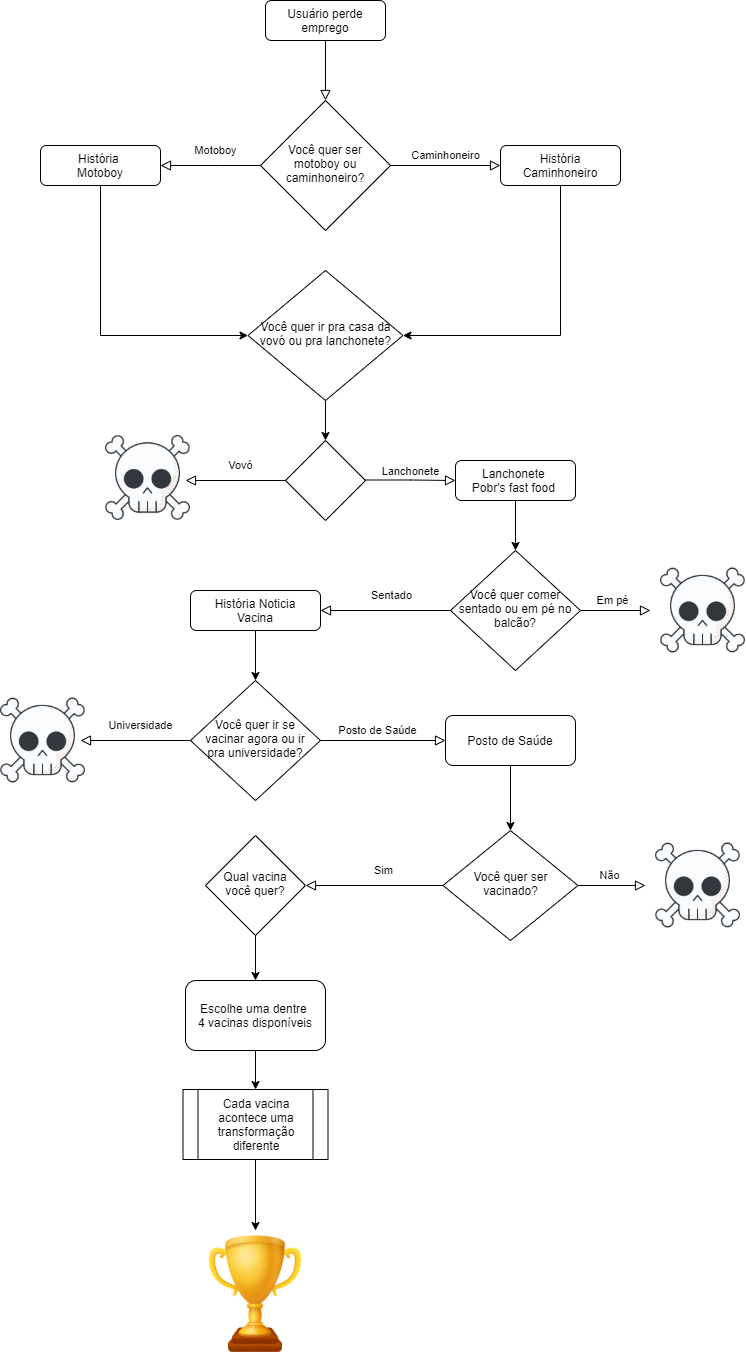
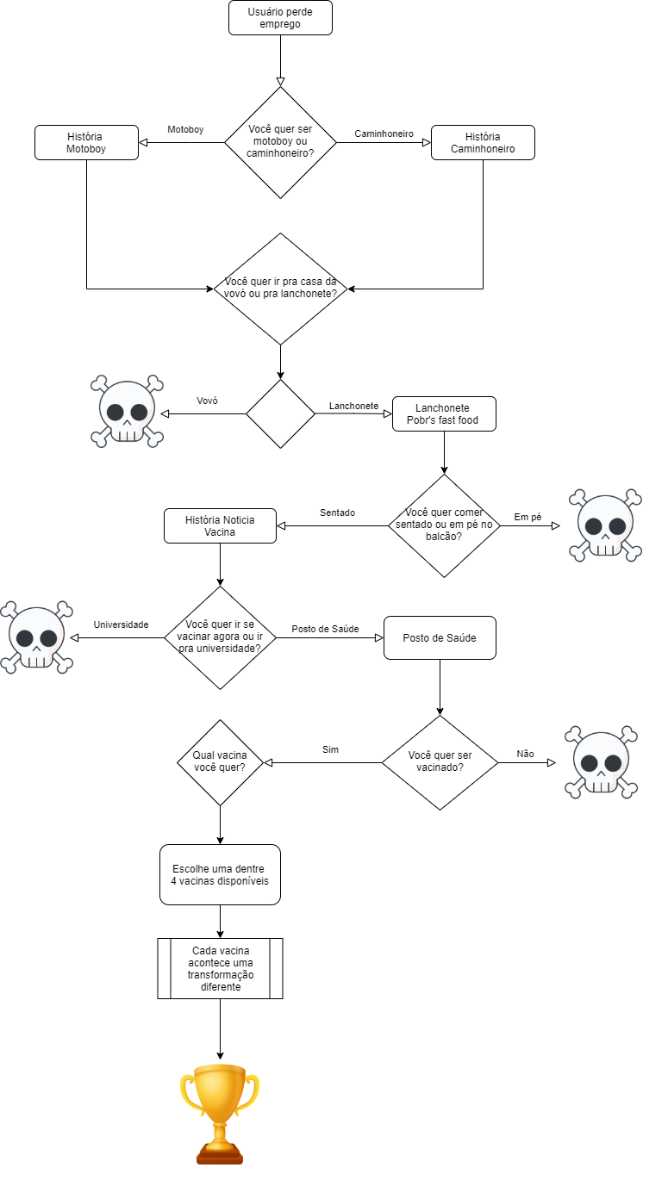
adicionado nova pergunta + mudancas readme

diff --git a/jacare_mutante_comunista.py b/jacare_mutante_comunista.py
@@ -10,8 +10,9 @@ def linha():
 def conhecendo_usuario():
     print("Antes de começarmos, precisamos saber um pouco sobre você.")
     nome = input("Qual o seu nome: ")
+    sexo = int(input("Qual o seu sexo? (1) masculino (2) feminino\nDigite o código = "))
 
-    return nome.capitalize()
+    return nome.capitalize(), sexo
 
 def veiculo(profissao):
     if (profissao == "motoboy"):
@@ -19,74 +20,94 @@ def veiculo(profissao):
     else:
         return "caminhão"
 
-def historia(nome):
+def historia(nome, sexo):
+
+    if (sexo == 1):
+        profissao_anterior = "garçon"
+        profissao = 'caminhoneiro'
+        frase = f"e ser aclamado por toda população mundial, \nou ser {profissao} e ser esquecido de todo horizonte imaginativo da sociedade."
+    else:
+        profissao_anterior = "garçonete"
+        profissao = 'caminhoneira'
+        frase = f"e ser aclamada por toda população mundial, \nou ser {profissao} e ser esquecida de todo horizonte imaginativo da sociedade."
     
     print(f"""
     Em uma galáxia não tão distante assim, {nome} se vê em uma enrascada no planeta Terra. \nUm vírus ataca novamente, e dizima grande parte dos lacradores e mitadores mundiais.
-    Graças aos Joãozinhos tranca rua, perdeu seu emprego de garçon, \ne agora precisa procurar um novo emprego rápido, antes que sua familia morra de fome.\n
-    Agora, {nome} pode ser um motoboy, e ser aclamado por toda população mundial, \nou ser um caminhoneiro e ser esquecido de todo horizonte imaginativo da sociedade.
+    Graças aos Joãozinhos tranca rua, perdeu seu emprego de {profissao_anterior}, \ne agora precisa procurar um novo emprego rápido, antes que sua familia morra de fome.\n
+    Agora, {nome} pode ser um motoboy, {frase}
     """)
     linha()
-    resposta_profissao = int(input("Você quer ser motoboy ou caminhoneiro? (1) motoboy (2) caminhoneiro\nDigite o código = "))
+    resposta_profissao = int(input(f"Você quer ser motoboy ou {profissao}? (1) motoboy (2) {profissao}\nDigite o código = "))
     linha()
 
     if (resposta_profissao == 1):
-        historia_parte_2(nome, "motoboy")
+        historia_parte_2(nome, "motoboy", sexo)
     else:
-        historia_parte_2(nome, "caminhoneiro")
+        historia_parte_2(nome, profissao, sexo)
     
 
-def historia_parte_2(nome, profissao):
+def historia_parte_2(nome, profissao, sexo):
     
     if profissao == 'motoboy':
         print(f"\nGraças a campanha 'fique em casa, deixe um {profissao} morrer por você', {nome} conseguiu um emprego rápido para poder ajudar sua familia.\nDepois de um longo dia de trabalho entregando comida para funcionários públicos trancados em seus flats, ficou com fome.\nPercebeu que a melhor lanchonete da cidade fica um pouco longe, mas que sua querida vovó morava ali perto.\n")
     else:
-        print(f"""\nGraças a campanha 'fique em casa, deixe um {profissao} morrer por você', {nome} conseguiu um emprego rápido para poder ajudar sua familia.\nAo dirigir o caminhão pelas cidades do seu estado, percebeu que não ficou apenas sem o prestígio da população mundial, mas como também sem almoço.\nVários Joãozinhos tranca rua fecharam os restaurantes de seu percurso, o que se não fosse os moradores que distribuiam marmitex nas BRs, já estaria em um cemitério.\nViu pessoas sendo presas por estarem sentadas em praça publica, mesmo usando 2 mascaras. E pensou que o mundo foi pro buraco.\nAo ver toda aquela picaretagem, concordou com a famosa frase de Jordan Peterson: "Life is suffering" (A vida é sofrimento).\nPois parece que nada é tão ruim, que não possa ser piorado por um pandeminion, pois agora terá toque de recolher e rastreamento de celular.\nAo pensar em tudo isso, ficou com fome, e ao notar que estava passando por sua cidade natal, ficou feliz da vida.\nPercebeu que a melhor lanchonete da cidade fica um pouco longe, mas que sua querida vovó morava ali perto.\n""")
+        print(f"""\nGraças a campanha 'fique em casa, deixe um caminhoneiro morrer por você', {nome} conseguiu um emprego rápido para poder ajudar sua familia.\nAo dirigir o caminhão pelas cidades do seu estado, percebeu que não ficou apenas sem o prestígio da população mundial, mas como também sem almoço.\nVários Joãozinhos tranca rua fecharam os restaurantes de seu percurso, o que se não fosse os moradores que distribuiam marmitex nas BRs, já estaria em um cemitério.\nViu pessoas sendo presas por estarem sentadas em praça publica, mesmo estando sozinhas e usando 2 mascaras. E pensou que o mundo foi pro buraco.\nAo ver toda aquela picaretagem, concordou com a famosa frase de Jordan Peterson: "Life is suffering" (A vida é sofrimento).\nPois parece que nada é tão ruim, que não possa ser piorado por um pandeminion, pois agora terá toque de recolher e rastreamento de celular.\nAo pensar em tudo isso, ficou com fome, e ao notar que estava passando por sua cidade natal, ficou feliz da vida.\nPercebeu que a melhor lanchonete da cidade fica um pouco longe, mas que sua querida vovó morava ali perto.\n""")
     
     linha()
     resposta = int(input("Você quer ir pra casa da vovó ou pra lanchonete? (1) lanchonete (2) vovó\nDigite o código = "))
     linha()
 
     if (resposta == 1):
-        historia_lanchonete(nome, profissao)
+        historia_lanchonete(nome, profissao, sexo)
     else:
-        historia_casa_vovo(nome)
+        historia_casa_vovo(nome, sexo)
         
 
-def historia_lanchonete(nome, profissao):
+def historia_lanchonete(nome, profissao, sexo):
+    
+    if sexo == 1:
+        palavra = "sentado"
+    else:
+        palavra = "sentada"
 
     print(f"""
-    {nome} foi então a melhor lanchone da cidade, a Pobr's fast food. Fez seu pedido favorito, um 'hamburgão topzera'.\n
-    Então, como tinha ficado muito tempo sentado durante o dia, teve vontade de comer em pé no balcão da lanchonete.
+    {nome} foi então a melhor lanchone da cidade, a Pobr's fast food. Fez seu pedido favorito, o lanche chamado 'Pobreza Extrema'.\n
+    Então, como tinha ficado muito tempo {palavra} durante o dia, teve vontade de comer em pé no balcão da lanchonete.
     Porém, se deparou com um dilema.  
     """)
 
     linha()
-    resposta = int(input("Você quer comer sentado ou em pé no balcão da Pobr's fast food? (1) em pé (2) sentado\nDigite o código = "))
+    resposta = int(input(f"Você quer comer {palavra} ou em pé no balcão da Pobr's fast food? (1) em pé (2) {palavra}\nDigite o código = "))
     linha()
 
     if (resposta == 1):
-        print(f"\nAo comer em pé, {nome} se esqueceu da noticia que assistiu na rede gróbis, ao qual falava que em estabelecimentos como aquele,\nao ficar em pé pega coronga, mas se está sentado, está a salvo de todas as doenças do mundo. Como ficou de pé, pegou Coronga e se ferrou :(")
+        print(f"\nAo comer em pé, {nome} se esqueceu da notícia que assistiu na rede gróbis, ao qual falava que em estabelecimentos como aquele,\nao ficar em pé pega coronga, mas se está {palavra}, está a salvo de todas as doenças do mundo. Como ficou de pé, pegou Coronga e se ferrou :(")
         imprime_mensagem_perdedor("\nPuxa, como você não tem fisico de atleta, você morreu!!!")
     else:
-        print(f"""\nComendo tranquilamento sentado o seu hamburgão, quando de repente uma ótima noticia apareceu no canal da rede gróbis, em uma TV a sua frente.\nUm militante falava que naquele mesmo dia, perto de onde estava {nome}, havia um posto de saúde que estava vacinando pessoas contra peste chinesa.\n{nome}, uma pessoa muito prudente e inteligente, perguntou se seria uma boa coisa sair daquele lugar e ir se vacinar logo, para que voltasse a ter uma vida minimamente normal.\nPorém, ao mesmo tempo lembrou que seu semestre na universidade ia começar hoje, mais precisamente daqui a 1 hora teria sua primeira aula.\n""")
+        print(f"""\nComendo tranquilamento {palavra} o seu hamburgão, quando de repente uma ótima notícia apareceu no canal da rede gróbis, em uma TV a sua frente.\nUm militante falava que naquele mesmo dia, perto de onde estava {nome}, havia um posto de saúde que estava vacinando pessoas contra peste chinesa.\n{nome}, uma pessoa muito prudente e inteligente, perguntou se seria uma boa coisa sair daquele lugar e ir se vacinar logo, para que voltasse a ter uma vida minimamente normal.\nPorém, ao mesmo tempo lembrou que seu semestre na universidade ia começar hoje, mais precisamente daqui a 1 hora teria sua primeira aula.\n""")
 
         linha()
         resposta = int(input("Você quer ir se vacinar agora ou ir pra universidade? (1) vacinar (2) universidade\nDigite o código = "))
         linha()
         if (resposta == 1):
-            historia_posto_saude(nome, profissao)
+            historia_posto_saude(nome, profissao, sexo)
         elif (resposta == 2):
-            historia_universidade(nome)
+            historia_universidade(nome, sexo)
         else:
             imprime_mensagem_perdedor(f"Puxa, como {nome} não se vacinou, pegou coronga na lanchonete e se ferrou :( VOCÊ PERDEU!!!")
     
 
-def historia_universidade(nome):
+def historia_universidade(nome, sexo):
+
+    if sexo == 1:
+        palavra = "deitado"
+    else:
+        palavra = "deitada"
+
     print(f"""
-    Ao chegar na universidade, {nome} se deu conta que fica quase impossivel manter o distanciamento social naquele lugar que só tem balbúrdia.\n
+    Ao chegar na universidade, {nome} se deu conta que fica quase impossível manter o distanciamento social naquele lugar que só tem balbúrdia.\n
     Porém, como sempre vai a academia 3 dias por semana, pensou que se pegar coronga, não iria sentir quase nada e poderia seguir com seus estudos.\n
-    Dito e feito, ou quase isso, {nome} pegou coronga sim, mas vai estudar deitado assim como faz em casa, só que estará deitado em um lugar mais pacífico.\n
+    Dito e feito, ou quase isso, {nome} pegou coronga sim, mas vai estudar {palavra} assim como faz em casa, só que estará {palavra} em um lugar mais pacífico.\n
     Um cemitério :(
     """)
 
@@ -94,10 +115,15 @@ def historia_universidade(nome):
 
     imprime_mensagem_perdedor("Puxa, como você não tem fisico de atleta, você morreu!!!")
 
-def historia_casa_vovo(nome):
+def historia_casa_vovo(nome, sexo):
+
+    if sexo == 1:
+        frase = 'o obrigou a comer feito um condenado'
+    else:
+        frase = 'a obrigou a comer feito uma condenada'
     
     print(f"""
-    Ao chegar a casa dá vovó, {nome} comeu o seu prato favorito, pois como toda vovó, o obrigou a comer feito um condenado.\n
+    Ao chegar a casa dá vovó, {nome} comeu o seu prato favorito, pois como toda vovó, {frase}.\n
     Porém, {nome} se esqueceu que sua querida vovó faz parte do grupo de risco, graças a sua idade e suas comorbidades.\n
     Devido {nome} sair para trabalhar, de alguma forma, passou a peste chinesa para sua vovó, que veio a falecer.
     """)
@@ -109,8 +135,19 @@ def historia_casa_vovo(nome):
 
 def tomar_vacina(nome, profissao):
 
+    if sexo == 1:
+        frase = f'{nome}, com toda sua sabedoria de um bom {profissao}, aceita ser vacinado'
+        palavra = "estranho"
+        imune = "vacinado"
+        estudo = "estudado"
+    else:
+        frase = f'{nome}, com toda sua sabedoria de uma boa {profissao}, aceita ser vacinada'
+        palavra = "estranha"
+        imune = "vacinada"
+        estudo = "estudada"
+
     print(f"""
-    {nome}, com toda sua sabedoria de um bom {profissao}, aceita ser vacinado, com esperança que aquele ato fosse fazer que sua vida voltasse ao normal.\n
+    {frase}, com esperança que aquele ato fosse fazer que sua vida voltasse ao normal.\n
     - "Qual vacina deseja tomar {nome}?", disse a enfermeira.
     """)
 
@@ -121,42 +158,50 @@ def tomar_vacina(nome, profissao):
     print(f"\nA enfermeira pegou a seringa, mas não tinha nada dentro. Ela pegou a famosa 'vacina de vento'.\nAlém disso, ela nem apertou o êmbolo da seringa na hora de aplicar a vacina.\n")
 
     if (codigo_vacina == 1):
-        print(f"\n{nome}, prontamente avisou a enfermeira que aquela era a 'vacina de vento', e não o que tinha pedido.\nA enfermeira, constrangida com o ocorrido, pediu mil desculpas e foi correndo pegar a CORONAVAC.\nQuando foi aplicada a vacina chinesa, ao qual era a mesma coisa que jogar 'cara ou coroa' (50% de se dar bem ou de se ferrar),\nde repente {nome} se sentiu estranho, como se algo estivesse acontecendo com seu corpo.\n{nome} virou um jacaré comunista diante dos olhos da enfermeira. Mas, porém, contudo, todavia, entretanto, no entanto, não obstante,\n{nome} estava naquele momento imunizado contra covid-19, e era tudo o que importava.\n")
-        imprime_mensagem_vencedor(f"Parabéns, você foi vacinado e venceu!!! Agora {nome} é um jacaré comunista :)")
+        print(f"\n{nome}, prontamente avisou a enfermeira que aquela era a 'vacina de vento', e não o que tinha pedido.\nA enfermeira, constrangida com o ocorrido, pediu mil desculpas e foi correndo pegar a CORONAVAC.\nQuando foi aplicada a vacina chinesa, ao qual era a mesma coisa que jogar 'cara ou coroa' (50% de se dar bem ou de se ferrar),\nde repente {nome} se sentiu {palavra}, como se algo estivesse acontecendo com seu corpo.\n{nome} virou um jacaré comunista diante dos olhos da enfermeira. Mas, porém, contudo, todavia, entretanto, no entanto, não obstante,\n{nome} estava naquele momento imune contra covid-19, e era tudo o que importava.\n")
+        imprime_mensagem_vencedor(f"Parabéns, você foi {imune} e venceu!!! Agora {nome} é um jacaré comunista :)")
 
     elif (codigo_vacina == 2):
-        print(f"\n{nome}, prontamente avisou a enfermeira que aquela era a 'vacina de vento', e não o que tinha pedido.\nA enfermeira, constrangida com o ocorrido, pediu mil desculpas e foi correndo pegar a vacina OXFORD.\nQuando foi aplicada a vacina, ao qual já vem com um microchipe de rastreamento dentro,\nde repente {nome} se sentiu estranho, como se algo estivesse acontecendo com seu corpo.\n{nome} virou um jacaré comunista seguidor de Putin diante dos olhos da enfermeira. Mas, porém, contudo, todavia, entretanto, no entanto, não obstante,\n{nome} estava naquele momento imunizado contra covid-19, e era tudo o que importava.\n")
-        imprime_mensagem_vencedor(f"Parabéns, você foi vacinado e venceu!!! Agora {nome} é um jacaré comunista microchipado, e será rastreado pelo nova ordem mundial pelo resto da vida :)")
+        print(f"\n{nome}, prontamente avisou a enfermeira que aquela era a 'vacina de vento', e não o que tinha pedido.\nA enfermeira, constrangida com o ocorrido, pediu mil desculpas e foi correndo pegar a vacina OXFORD.\nQuando foi aplicada a vacina, ao qual já vem com um microchipe de rastreamento dentro,\nde repente {nome} se sentiu {palavra}, como se algo estivesse acontecendo com seu corpo.\n{nome} virou um jacaré comunista seguidor de Putin diante dos olhos da enfermeira. Mas, porém, contudo, todavia, entretanto, no entanto, não obstante,\n{nome} estava naquele momento imune contra covid-19, e era tudo o que importava.\n")
+        imprime_mensagem_vencedor(f"Parabéns, você foi {imune} e venceu!!! Agora {nome} é um jacaré comunista microchipado, e será rastreado pelo nova ordem mundial pelo resto da vida :)")
 
     elif (codigo_vacina == 3):
-        print(f"{nome}, prontamente avisou a enfermeira que aquela era a 'vacina de vento', e não o que tinha pedido.\nA enfermeira, constrangida com o ocorrido, pediu mil desculpas e foi correndo pegar a vacina PFIZER.\nQuando foi aplicada a vacina, ao qual muitos médicos diziam que utilizava uma técnologia nova que pode alterar o DNA e RNA,\nde repente {nome} se sentiu estranho, como se algo estivesse acontecendo com seu corpo.\n{nome} virou um jacaré mutante socialista de Iphone diante dos olhos da enfermeira. Mas, porém, contudo, todavia, entretanto, no entanto, não obstante,\n{nome} estava naquele momento imunizado contra covid-19, e era tudo o que importava.\n")
-        imprime_mensagem_vencedor(f"Parabéns, você foi vacinado e venceu!!! Agora {nome} é um jacaré mutante socialista, e será estudado pelo Instituto Butantan :)")
+        print(f"{nome}, prontamente avisou a enfermeira que aquela era a 'vacina de vento', e não o que tinha pedido.\nA enfermeira, constrangida com o ocorrido, pediu mil desculpas e foi correndo pegar a vacina PFIZER.\nQuando foi aplicada a vacina, ao qual muitos médicos diziam que utilizava uma técnologia nova que pode alterar o DNA e RNA,\nde repente {nome} se sentiu {palavra}, como se algo estivesse acontecendo com seu corpo.\n{nome} virou um jacaré mutante socialista de Iphone diante dos olhos da enfermeira. Mas, porém, contudo, todavia, entretanto, no entanto, não obstante,\n{nome} estava naquele momento imune contra covid-19, e era tudo o que importava.\n")
+        imprime_mensagem_vencedor(f"Parabéns, você foi {imune} e venceu!!! Agora {nome} é um jacaré mutante socialista, e será {estudo} pelo Instituto Butantan :)")
 
     elif (codigo_vacina == 4):
-        print(f"\n{nome}, prontamente avisou a enfermeira que aquela era a 'vacina de vento', e não o que tinha pedido.\nA enfermeira, constrangida com o ocorrido, pediu mil desculpas e foi correndo pegar a vacina Sputnik V.\nQuando foi aplicada a vacina, ao qual muitos médicos diziam que por ser uma ditadura que gosta de manipular dados para favorecer sua ideologia,\nde repente {nome} se sentiu estranho, como se algo estivesse acontecendo com seu corpo.\n{nome} virou um jacaré comunista, espião de Putin e adorador de xi jinping diante dos olhos da enfermeira. Mas, porém, contudo, todavia, entretanto, no entanto, não obstante,\n{nome} estava naquele momento imunizado contra covid-19, e era tudo o que importava.\n")
-        imprime_mensagem_vencedor(f"Parabéns, você foi vacinado e venceu!!! Agora {nome} é um jacaré comunista espião de Putin em solo tupiniquim :)")
+        print(f"\n{nome}, prontamente avisou a enfermeira que aquela era a 'vacina de vento', e não o que tinha pedido.\nA enfermeira, constrangida com o ocorrido, pediu mil desculpas e foi correndo pegar a vacina Sputnik V.\nQuando foi aplicada a vacina, ao qual muitos médicos diziam que por ser uma ditadura que gosta de manipular dados para favorecer sua ideologia,\nde repente {nome} se sentiu {palavra}, como se algo estivesse acontecendo com seu corpo.\n{nome} virou um jacaré comunista, espião de Putin e adorador de xi jinping diante dos olhos da enfermeira. Mas, porém, contudo, todavia, entretanto, no entanto, não obstante,\n{nome} estava naquele momento imune contra covid-19, e era tudo o que importava.\n")
+        imprime_mensagem_vencedor(f"Parabéns, você foi {imune} e venceu!!! Agora {nome} é um jacaré comunista espião de Putin em solo tupiniquim :)")
     
     else:
-        imprime_mensagem_perdedor(f"Puxa, {nome} recebeu a 'vacina de vento', saiu todo feliz, porém pegou coronga e se ferrou :( VOCÊ PERDEU!!!")
+        imprime_mensagem_perdedor(f"Puxa, {nome} recebeu a 'vacina de vento', saiu feliz da vida do posto de saúde, porém pegou coronga e se ferrou :( VOCÊ PERDEU!!!")
 
 
 
-def historia_posto_saude(nome, profissao):
+def historia_posto_saude(nome, profissao, sexo):
 
     veiculo_usuario = veiculo(profissao)
 
+    if sexo == 1:
+        palavra = "nervoso"
+        imune = "vacinado"
+    else:
+        palavra = "nervosa"
+        imune = "vacinada"
+
     print(f"""
-    {nome}, com toda sua prudencia e sofisticação, usando 2 mascaras e respeitando o isolamento social, chegou de {veiculo_usuario} ao posto de saúde para se vacinar.\n
-    Antes de aplicarem a vacina, a enfermeira o avisou que a farmacêutica da vacina tem 'isenção de responsabilidade',\n 
-    ou seja, não tem responsabilidade por eventuais efeitos colaterais da vacina. {nome} achou tudo muito estranho.\n
-    - "Isso é estrano, não? seria como se eu vende-se uma TV pra você, e quando você liga-se em sua casa, eu fala-se 'problema é seu!'...", disse {nome}.
+    {nome}, com toda sua prudencia e sofisticação, usando 2 mascaras e respeitando o isolamento social, chegou de {veiculo_usuario} ao posto de saúde para se vacinar.
+    Antes de aplicarem a vacina, a enfermeira avisou que a farmacêutica da vacina tem 'isenção de responsabilidade',
+    ou seja, não tem responsabilidade por eventuais efeitos colaterais da vacina. {nome} achou tudo muito estranho.
+    - "Isso é estrano, não? seria como se eu vende-se um carro pra você, e quando você estivesse saindo da concessionaria,
+    3 pneus caíssem, e depois eu fala-se pra você: 'problema é seu!'...", disse {nome}.
     - "Pera aí, você é um negacionista terra planista minion? Vou ligar pra polícia das ideias é já!...", disse a enfermeira.
-    - "Não, não, calma...não sou isso não, apenas estava comentando o que um colega meu me disse outro dia.", disse {nome} nervoso com a situação.
+    - "Não, não, calma...não sou isso não, apenas estava comentando o que um colega meu me disse outro dia.", disse {nome} {palavra} com a situação.
     - "A tá. Entendi. Mas e aí, vai tomar a vacina ou não?"
     """)
 
     linha()
-    resposta = int(input("Você quer ser vacinado? (1) sim (2) não\nDigite o código = "))
+    resposta = int(input(f"Você quer ser {imune}? (1) sim (2) não\nDigite o código = "))
     linha()
     if (resposta == 1):
         tomar_vacina(nome, profissao)
@@ -208,17 +253,17 @@ def imprime_mensagem_perdedor(mensagem):
 
 while (True):
     linha()
-    print("O JACARÉ MUTANTE COMUNISTA".center(50))
+    print("O JACARÉ MUTANTE COMUNISTA".center(70))
     linha()
 
-    nome = conhecendo_usuario()
+    nome, sexo = conhecendo_usuario()
     linha()
 
-    historia(nome)
+    historia(nome, sexo)
 
     resposta = int(input("\nQuer começar o jogo novamente? (1) sim ou (2) não = "))
     if (resposta == 2):
         break
     
 
-print("\n============= FIM DE JOGO =============\n")
+print("\n==================== FIM DE JOGO ====================\n")

diff --git a/README.md b/README.md
@@ -1,4 +1,5 @@
-# _**Jogo Resilia**_ 🕹 
+<h1 align="center">Jogo Resilia 🕹</h1> 
+
 > Jogo satírico sobre a pandemia do covid-19 no Brasil.
 
 ## **Título: O JACARÉ MUTANTE COMUNISTA :crocodile:**
